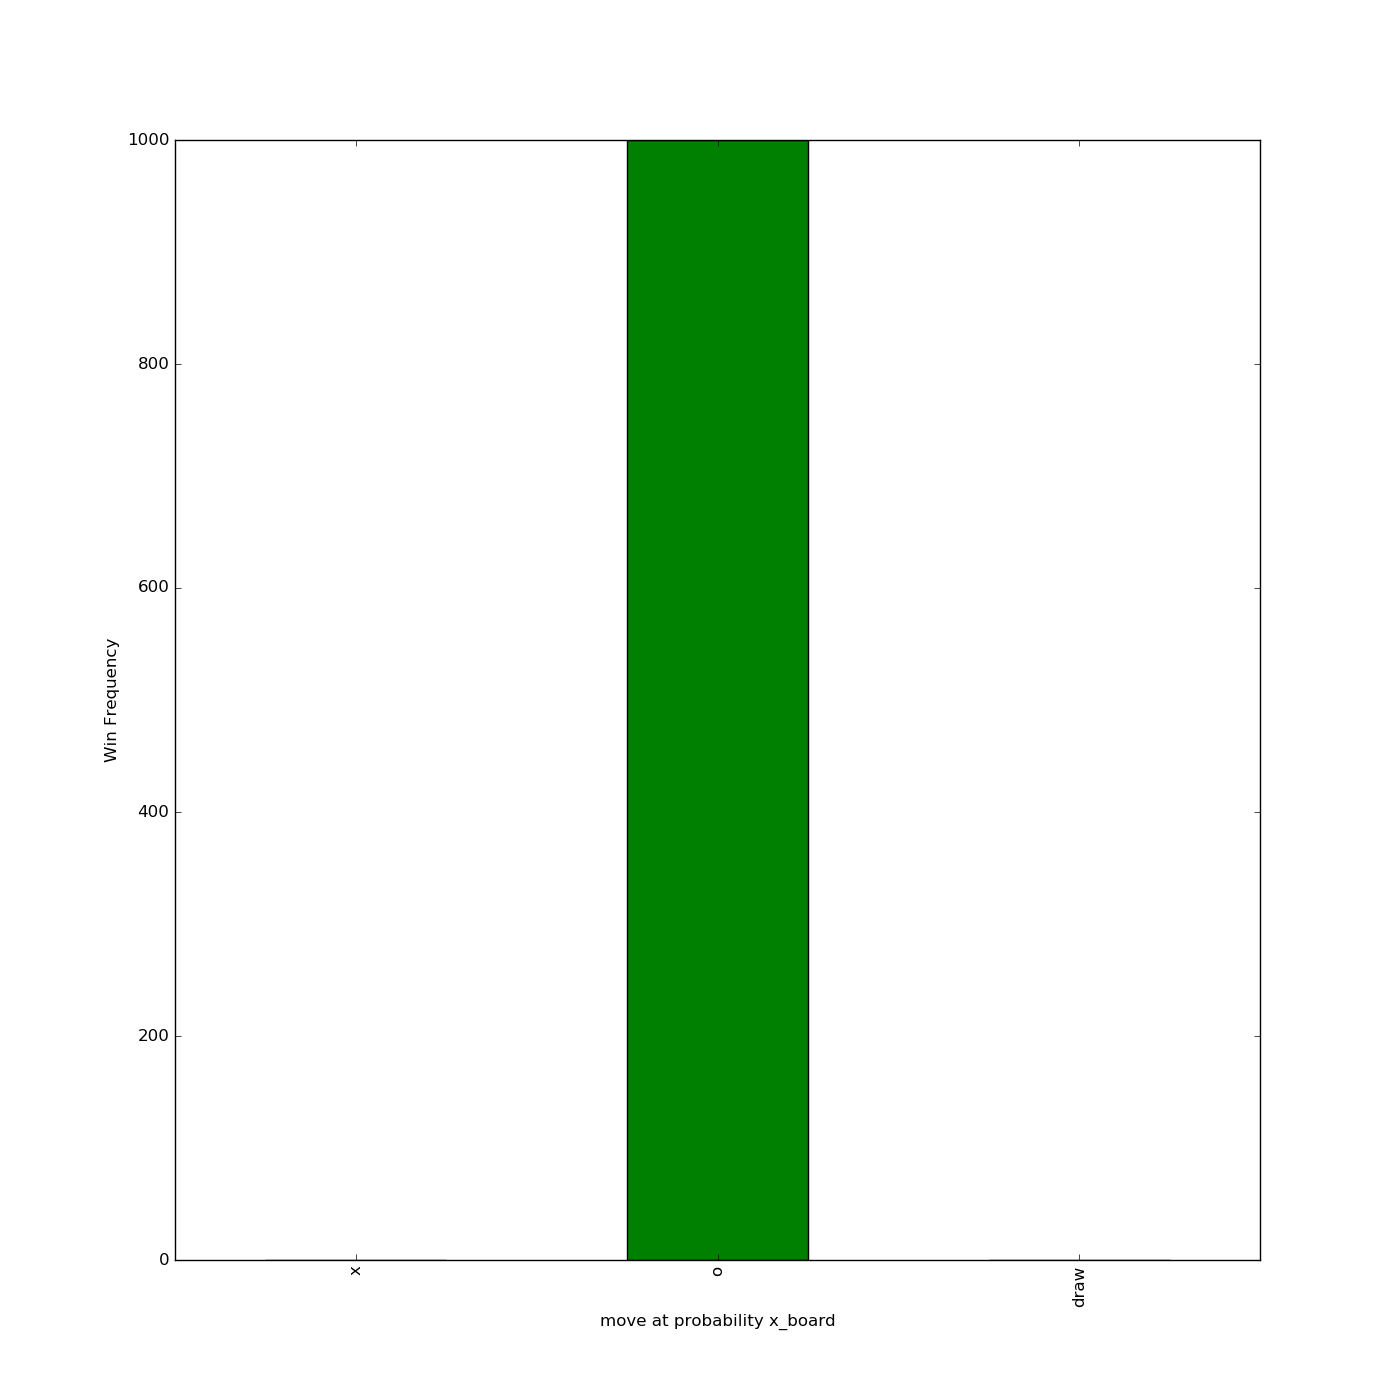
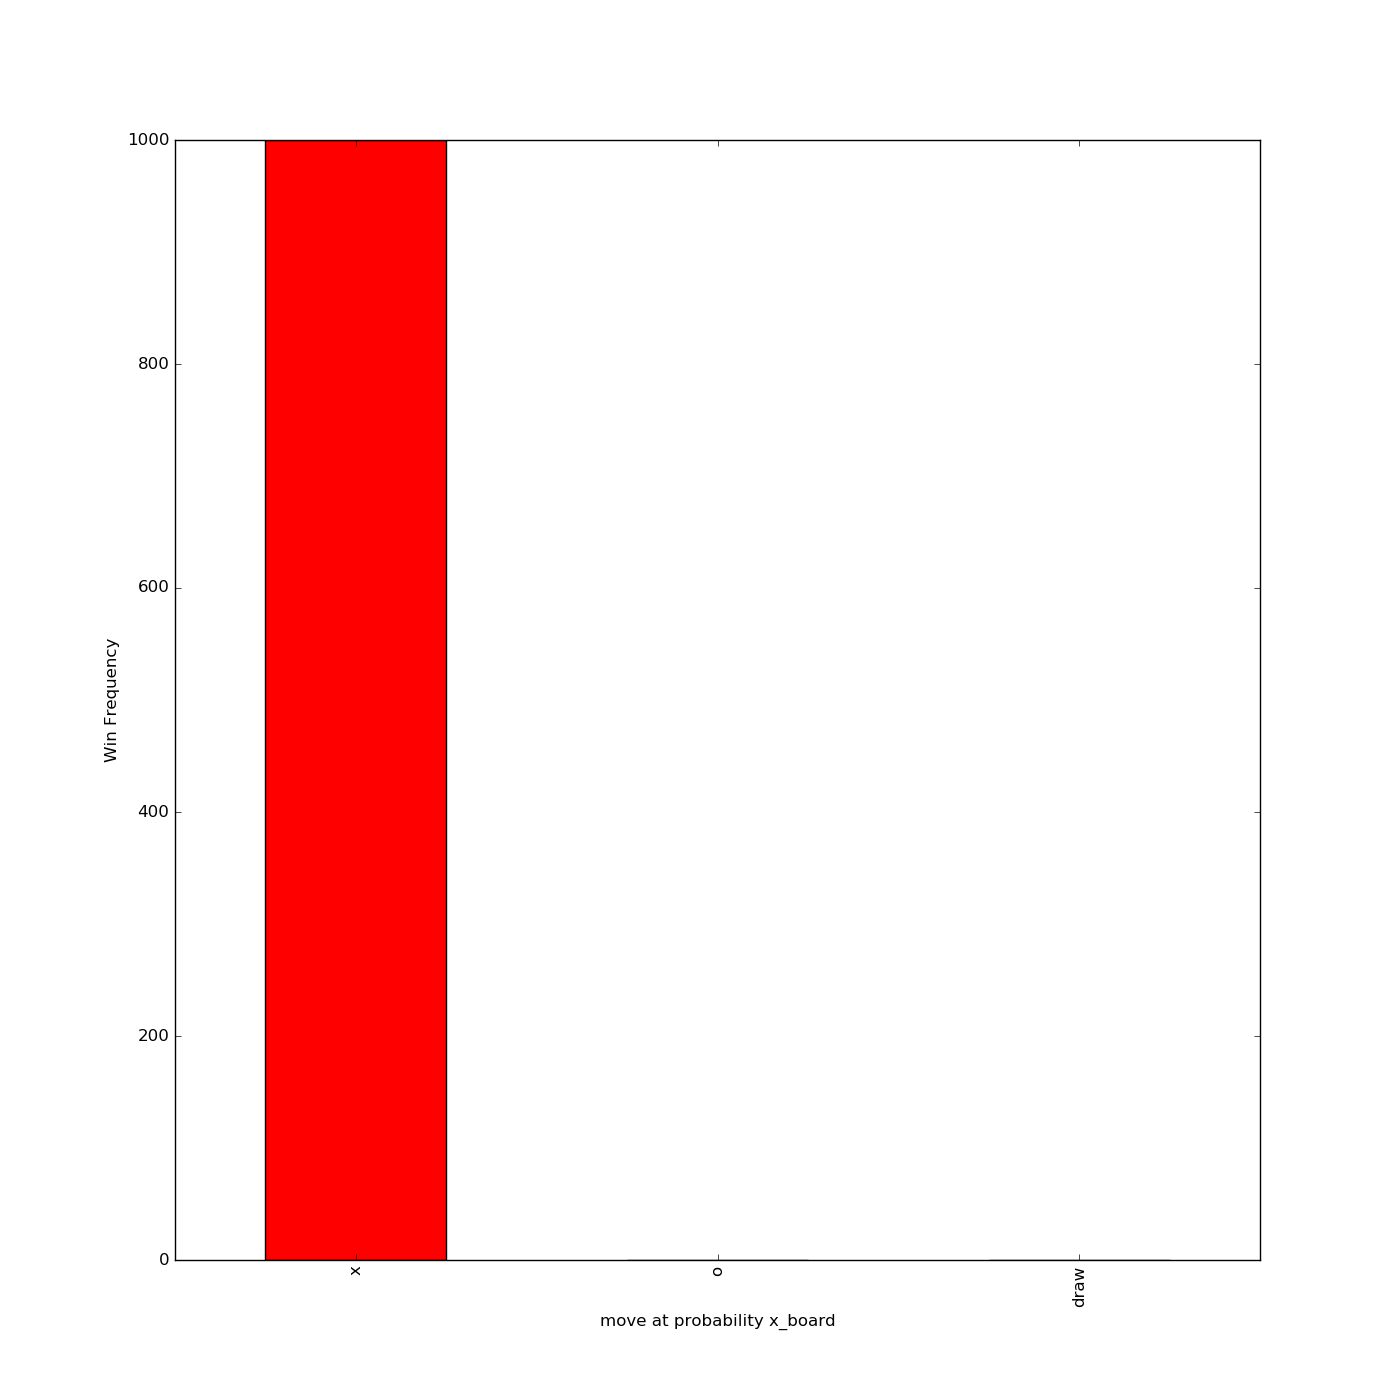
min max class should now work correctly for both tic tac toe and connect 4

Changed region(s): [[0.43, 0.0921, 0.5836, 0.9214], [0.1843, 0.0921, 0.3379, 0.9214]]

diff --git a/src/games.py b/src/games.py
@@ -1,7 +1,7 @@
 import pandas as pd
 import numpy as np
 import matplotlib.pyplot as plt
-import sys
+#from min_max_class import MinMax
 
 class Histogram:
     """ plot histogram on given x-y data """
@@ -153,6 +153,12 @@ class TicTacToe:
         S[xs[best], ys[best]] = p
         return S, xs[best], ys[best]
 
+    def move_min_max(self, state, player, level):
+        minmax = MinMax(TicTacToe(), 'ttt', player * -1, level, state)
+        new_state, score = minmax.run_min_max()
+        xs, ys = np.nonzero(np.subtract(state, new_state))  # get new added position
+        return new_state, xs[0], ys[0]
+
     def execute(self, strategy_x):
         tmp = []
         moves_in_each_game_x = []
@@ -180,7 +186,7 @@ class TicTacToe:
             elif name == 'x' and strategy_x == 'move at heuristic forward':
                 game_state, x, y = self.move_at_heuristic(game_state, player)
             else:
-                game_state, x, y = self.move_at_random(game_state, player)
+                game_state, x, y = self.move_min_max(game_state, player, 3)
 
             moves = [x, y]
             if( name == 'x'):

diff --git a/src/min_max_class.py b/src/min_max_class.py
@@ -83,22 +83,22 @@ class MinMax:
         state, player, level = self.state, self.player, self.level
         self.build_tree(state, player, node, level)
 
-        # compute min-max value of node, and return the next state
-        mmv = self.max_node_util(node)
+        # as here 'player' is actually our opponent, we want his min
+        mmv = self.min_node_util(node)
         return next(self.nodeDict[succ] for succ in self.nodeSuccDict[node] if self.nodeMinMaxDict[succ] is mmv), mmv
+
 
 if __name__ == '__main__':
     ttt = TicTacToe()
     state = np.array([
-        [1, -1, 0],
-        [0, -1, 0],
-        [0, 0, 1]
+        [-1, 0, 1],
+        [0, 1, 0],
+        [0, 0, 0]
     ])
     player = 1
     level = 2
     minmax = MinMax(ttt, 'ttt', player, level, state)
     print minmax.run_min_max()
-
     connect4 = ConnectFour(7, 6)
     state = np.array([
         [0, 0, 0, 0, 0, 0, 0],

diff --git a/src/main.py b/src/main.py
@@ -2,8 +2,8 @@ from games import TicTacToe
 
 # task 1.2.1
 ttt = TicTacToe()
-ttt.run(1000, 'move at random')
-ttt.draw(True)
+#ttt.run(1000, 'move at random')
+#ttt.draw(True)
 ttt.run(1000, 'move at probability x_board')
 ttt.draw(False)
 ttt.run(1000, 'move at probability x_o_board')
